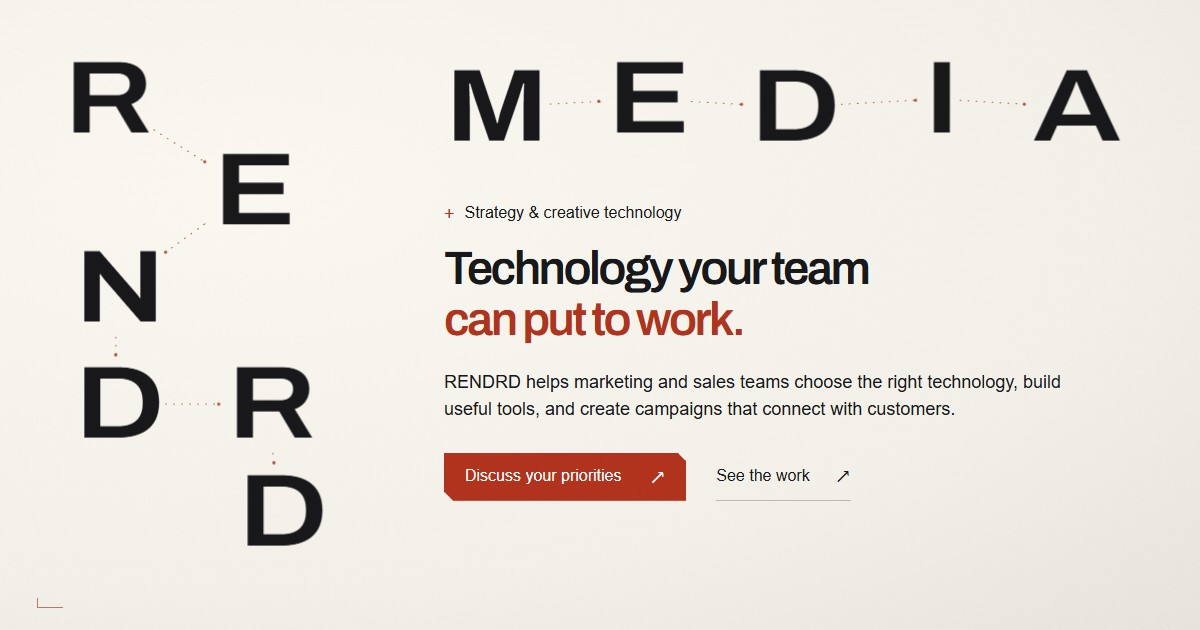
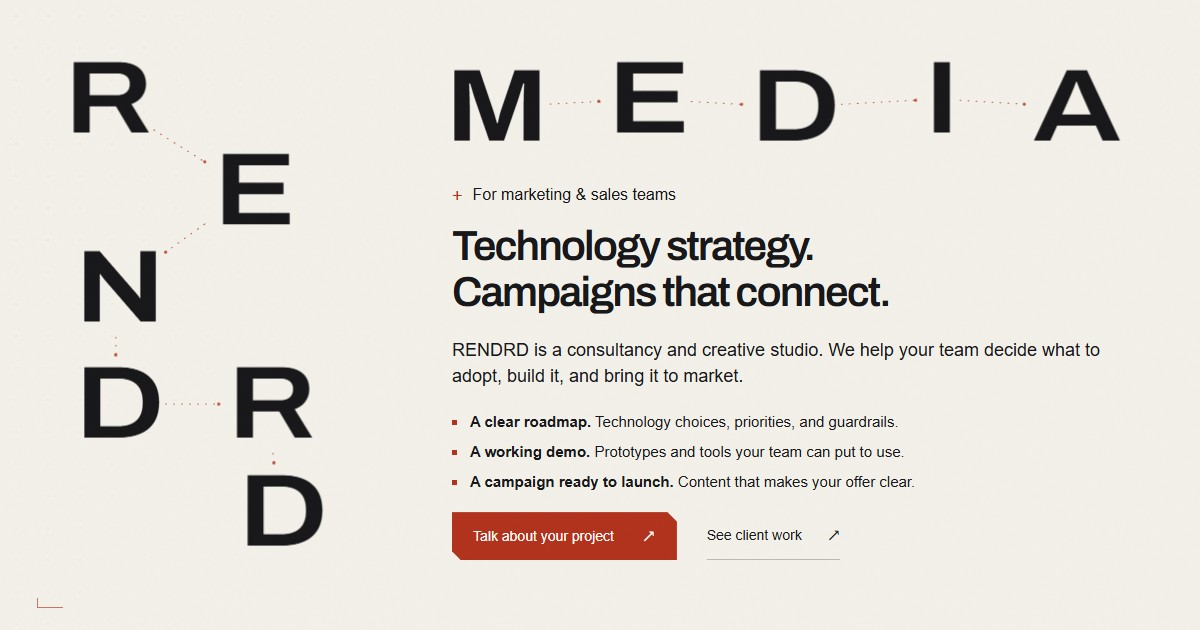
Keep hero readable across renderers and clarify client outcomes

Changed region(s): [[0.37, 0.3016, 0.925, 0.9048]]

diff --git a/app/clarity.css b/app/clarity.css
@@ -1,0 +1,35 @@
+/* Content stays readable independently of the decorative canvas or scroll state. */
+.strategy-hero{--hero-height:clamp(840px,calc(100svh - 68px),1000px);height:auto}
+.strategy-frame{position:relative;background:var(--ground)}
+.strategy-copy{top:29%;left:36%;max-width:1000px;padding:28px 30px 32px;background:var(--ground);isolation:isolate}
+.strategy-copy>p.hero-category{font-size:18px;margin-bottom:18px}
+.strategy-copy h2{font-size:clamp(40px,3.65vw,68px);line-height:1.08;letter-spacing:-.045em;margin-bottom:22px}
+.strategy-copy h2 span{color:var(--ink)}
+.strategy-copy>p:not(.hero-category){font-size:20px;line-height:1.5;max-width:740px;margin-bottom:22px}
+.hero-deliverables{list-style:none;padding:0;margin:0 0 28px;display:grid;gap:12px;max-width:780px}
+.hero-deliverables li{font:400 18px/1.45 Arial,Helvetica,sans-serif;padding-left:18px;position:relative}
+.hero-deliverables li::before{content:"";position:absolute;left:0;top:.62em;width:5px;height:5px;background:var(--accent)}
+.hero-deliverables strong{font-weight:700}
+.is-awaiting-focus{filter:none;transform:none}
+@media(min-width:1101px) and (max-height:760px){.strategy-hero{height:auto}}
+@media(max-width:1100px){
+ .strategy-hero{--hero-height:auto;height:auto}
+ .strategy-frame{height:auto;display:flex;flex-direction:column;padding:24px var(--gutter) 35px;overflow:hidden}
+ .strategy-copy{order:0;position:relative;inset:auto;padding:0;margin:10px 0 35px;max-width:760px}
+ .strategy-copy h2{font-size:clamp(35px,5.8vw,58px)}
+ .strategy-copy>p:not(.hero-category){font-size:20px}
+ .identity-stage{order:1;position:relative;inset:auto;width:100%;height:400px;margin:0 0 16px}
+ .identity-toggle{bottom:28px}
+}
+@media(max-width:760px){
+ .strategy-frame{padding-top:16px}
+ .strategy-copy{margin:12px 0 35px}
+ .strategy-copy>p.hero-category{font-size:16px;margin-bottom:16px}
+ .strategy-copy h2{font-size:clamp(32px,8.5vw,52px);margin-bottom:20px}
+ .strategy-copy>p:not(.hero-category){font-size:18px;line-height:1.5;margin-bottom:22px}
+ .hero-deliverables{gap:13px;margin-bottom:26px}
+ .hero-deliverables li{font-size:17px;line-height:1.45}
+ .hero-deliverables strong{display:block}
+ .strategy-actions{gap:16px 22px}
+ .identity-stage{height:clamp(310px,85vw,400px)}
+}

diff --git a/app/strategy-hero.tsx b/app/strategy-hero.tsx
@@ -142,7 +142,17 @@ export default function StrategyHero(){
     <h1 aria-label="RENDRD Media"><span className="sr-only">RENDRD Media</span>{letters.map((letter,i)=><span aria-hidden="true" key={i} className={"identity-letter identity-letter-"+i}>{letter}</span>)}</h1>
     <svg className="identity-bonds" aria-hidden="true">{bonds.map(([a,b])=><g className="identity-bond" key={a+"-"+b}><path/><circle r="1.6"/></g>)}</svg>
    </div>
-   <div className="strategy-copy"><p className="hero-category">Strategy &amp; creative technology</p><h2>Technology your team<br/><span>can put to work.</span></h2><p>RENDRD helps marketing and sales teams choose the right technology, build useful tools, and create campaigns that connect with customers.</p><div className="strategy-actions"><a href="#contact" className="pill">Discuss your priorities <Arrow/></a><a href="#work" className="strategy-work-link">See the work <Arrow/></a></div></div>
+   <div className="strategy-copy">
+    <p className="hero-category">For marketing &amp; sales teams</p>
+    <h2>Technology strategy.<br/><span>Campaigns that connect.</span></h2>
+    <p>RENDRD is a consultancy and creative studio. We help your team decide what to adopt, build it, and bring it to market.</p>
+    <ul className="hero-deliverables" aria-label="What you can get from RENDRD">
+     <li><strong>A clear roadmap.</strong> Technology choices, priorities, and guardrails.</li>
+     <li><strong>A working demo.</strong> Prototypes and tools your team can put to use.</li>
+     <li><strong>A campaign ready to launch.</strong> Content that makes your offer clear.</li>
+    </ul>
+    <div className="strategy-actions"><a href="#contact" className="pill">Talk about your project <Arrow/></a><a href="#work" className="strategy-work-link">See client work <Arrow/></a></div>
+   </div>
    <button className="identity-toggle" aria-label={paused?"Resume animation":"Pause animation"} title={paused?"Resume animation":"Pause animation"} aria-pressed={paused} onClick={()=>setPaused(p=>!p)}><svg viewBox="0 0 20 20" width="18" height="18" aria-hidden="true">{paused?<path fill="currentColor" d="M5 3 17 10 5 17Z"/>:<path fill="currentColor" d="M4 3h4v14H4zM12 3h4v14h-4z"/>}</svg></button>
   </div>
  </section>;

diff --git a/app/signal.css b/app/signal.css
@@ -1,6 +1,7 @@
 /* Sparse instrument marks, not a competing interface. */
-.signal-field{position:absolute;inset:0;z-index:-1;pointer-events:none;background-image:radial-gradient(circle at center,color-mix(in srgb,var(--accent) 12%,transparent) .6px,transparent .8px);background-size:32px 32px;mask-image:linear-gradient(110deg,#000,transparent 44%,transparent 72%,#000)}
+.signal-field{position:absolute;inset:0;z-index:-1;pointer-events:none;opacity:.18;contain:paint;clip-path:polygon(0 0,100% 0,100% 28%,33% 28%,33% 100%,0 100%);background-image:radial-gradient(circle at center,var(--accent) .6px,transparent .8px);background-size:32px 32px;mask-image:linear-gradient(110deg,#000,transparent 44%,transparent 72%,#000)}
 .signal-field canvas{display:block;width:100%;height:100%}
+.signal-field canvas:not([data-shader="ready"]){visibility:hidden}
 .signal-field:has(canvas[data-shader="ready"]){background:none;mask-image:none}
 .strategy-frame::after{content:"";position:absolute;pointer-events:none;left:var(--gutter);right:var(--gutter);bottom:22px;height:14px;background:linear-gradient(var(--accent),var(--accent)) left bottom/26px 1px no-repeat,linear-gradient(var(--accent),var(--accent)) left bottom/1px 10px no-repeat;opacity:.65}
 .strategy-copy>p.hero-category::before{content:"+";font:400 19px/1 monospace;color:var(--accent);margin-right:10px}
@@ -19,6 +20,6 @@
 .project-card .project-meta::before{content:"";position:absolute;left:0;top:-9px;width:40px;height:1px;background:var(--accent);transform:scaleX(0);transform-origin:left;transition:transform .3s var(--ease)}
 .project-card:hover .project-meta::before,.project-card:focus-within .project-meta::before{transform:scaleX(1)}
 body::before{opacity:.022}
-@media(max-width:760px){.signal-field{top:50%}.strategy-frame::after{bottom:30px}}
+@media(max-width:1100px){.signal-field{top:auto;bottom:0;height:430px;clip-path:none}.strategy-frame::after{bottom:30px}}
 @media(prefers-reduced-motion:reduce){.signal-field canvas{display:none}}
 @media(forced-colors:active){.signal-field,.strategy-frame::after{display:none}.strategy-actions>.pill,.identity-toggle{clip-path:none}}

diff --git a/app/signal-shader.ts b/app/signal-shader.ts
@@ -1,7 +1,14 @@
 /** A quiet, procedural signal field. The hero owns the clock and motion controls. */
 export function createSignalShader(canvas: HTMLCanvasElement) {
-  const gl = canvas.getContext("webgl", { alpha: true, premultipliedAlpha: false, antialias: false, depth: false, powerPreference: "low-power" });
+  const gl = canvas.getContext("webgl", { alpha: true, premultipliedAlpha: true, antialias: false, depth: false, powerPreference: "low-power" });
   if (!gl) return null;
+  // Some graphics configurations return an opaque buffer despite the request.
+  // Never show that buffer: it would paint the entire field in the accent color.
+  const attributes = gl.getContextAttributes();
+  if (!attributes?.alpha || !attributes.premultipliedAlpha) {
+    canvas.dataset.shader = "fallback";
+    return null;
+  }
   const shaders: WebGLShader[] = [];
   const compile = (type: number, source: string) => {
     const shader = gl.createShader(type)!;
@@ -41,7 +48,8 @@ export function createSignalShader(canvas: HTMLCanvasElement) {
       float edge=smoothstep(.01,.1,uv.x)*(1.-smoothstep(.96,1.,uv.x));
       float strength=(contour*.035+marks*.16)*safe*edge*(1.-u_progress*.4);
       vec3 ink=mix(vec3(.52,.19,.12),vec3(1.,.42,.25),u_dark);
-      gl_FragColor=vec4(ink,strength);
+      float alpha=clamp(strength,0.,.2);
+      gl_FragColor=vec4(ink*alpha,alpha);
     }
   `);
   if (!vertex || !fragment) { shaders.forEach(s => gl.deleteShader(s)); return null; }

diff --git a/app/page.tsx b/app/page.tsx
@@ -4,7 +4,6 @@ import Link from "./link";
 import { Header, Footer, Arrow } from "./components";
 import StrategyHero from "./strategy-hero";
 import ClientLogos from "./client-logos";
-import ScrollFocus from "./scroll-focus";
 import { projects, services, engagements, site, credentials } from "./data";
 
 const order=["nike-air-max","adobe-firefly","nba-microsoft","raptors-vince-carter","neurogenesis","protopica-artechouse"];
@@ -12,7 +11,7 @@ const work=order.map(slug=>projects.find(p=>p.slug===slug)!);
 export default function Home(){
  const [filter,setFilter]=useState("All work"),[active,setActive]=useState(0);
  const selectedProject=projects.find(p=>p.slug===services[active].project);
- return <><Header/><ScrollFocus/><main id="main" tabIndex={-1}>
+ return <><Header/><main id="main" tabIndex={-1}>
   <StrategyHero/>
   <section className="trust-section section" id="credentials" data-focus-reveal>
    <ClientLogos />

diff --git a/app/data.ts b/app/data.ts
@@ -2,7 +2,7 @@ export const site = {
   name: "RENDRD",
   email: "selviz@rendrd.com",
   url: "https://rendrd.tech",
-  description: "Technology strategy and governance, working prototypes, consumer campaigns, and sales enablement. RENDRD Media, led by advisor and educator Will Selviz.",
+  description: "RENDRD is a consultancy and creative studio for marketing and sales teams. Get a technology roadmap, a working prototype or demo, or a campaign ready to launch.",
   deck: "https://docs.google.com/presentation/d/13aoEyvk31l3CzoDFnnHiy8CodPuHPdgG-d8-90Wz5cs/edit",
 };
 

diff --git a/app/layout.tsx b/app/layout.tsx
@@ -10,6 +10,7 @@ import "./theme.css";
 import "./readability.css";
 import "./nike.css";
 import "./signal.css";
+import "./clarity.css";
 export const metadata: Metadata = {
   metadataBase: new URL(site.url), title: {default:"RENDRD | Technology strategy & creative advisory",template:"%s | RENDRD"}, description:site.description,
   alternates:{canonical:"/"},

diff --git a/DESIGN.md b/DESIGN.md
@@ -1,4 +1,4 @@
-# RENDRD Media — technology your team can put to work
+# RENDRD Media — technology strategy and campaigns that connect
 
 Updated 9 November 2026 for the rendrd.tech launch.
 
@@ -12,10 +12,12 @@ Signal treatment: subtle procedural WebGL contours and sparse dots, pluses, and 
 
 Typography: Archivo display; Arial body at 18px or larger, with 16px functional labels. No tiny instructions. Mobile leads with the proposition and actions before the letter field.
 
-Motion: perspective letters, bounded parallax, slow idle drift, lightly damped springs and a secondary settle. Links follow two reading paths outside the glyphs. Desktop has 380px scroll travel; mobile and short screens use normal flow. Pause preserves the current pose. Reduced motion is static without pinning.
+Motion: perspective letters, bounded parallax, slow idle drift, lightly damped springs and a secondary settle. Links follow two reading paths outside the glyphs. All layouts use normal scroll flow, without an extra pinned interval. Pause preserves the current pose. Reduced motion is static.
+
+Readability repair: identify RENDRD as a consultancy and creative studio for marketing and sales teams, with three concrete outcomes: a roadmap, a working demo, and a launch-ready campaign. Copy remains fully opaque and sharp without waiting for scroll. Use the theme's solid background and ink for both headline lines. Clip shader decoration outside the message, cap its container opacity, and use premultiplied output. If WebGL cannot provide a transparent premultiplied drawing buffer, hide the canvas and retain the static texture. Mobile presents the offer before the letter field.
 
 Content integrity: Nike 2M+ ad views and six-year relationship are user supplied. OCAD work advises faculty and recent graduates entering a changing job market. Masters teaching at LABASAD, Oxford and Stanford lectures, and representing OpenAI at White House events are distinct roles. Do not invent endorsements, governance commissions or metrics. Services and engagement names are proposed packaging.
 
-Original media and private documents stay outside the deployment repository. Contact prepares an email in the visitor's mail application. A dedicated private GitHub repository feeds Vercel, with rendrd.tech as canonical origin. Preserve the original Sites source separately.
+Original media and private documents stay outside the deployment repository. Contact prepares an email in the visitor's mail application. The user-created public GitHub repository wselviz/rendrd_tech feeds Vercel, with rendrd.tech as canonical origin. Preserve the original Sites source separately.
 
 Verify both themes, 320–2052px layouts, keyboard access, reduced motion, shader fallback, case-study playback and production metadata before publication.
